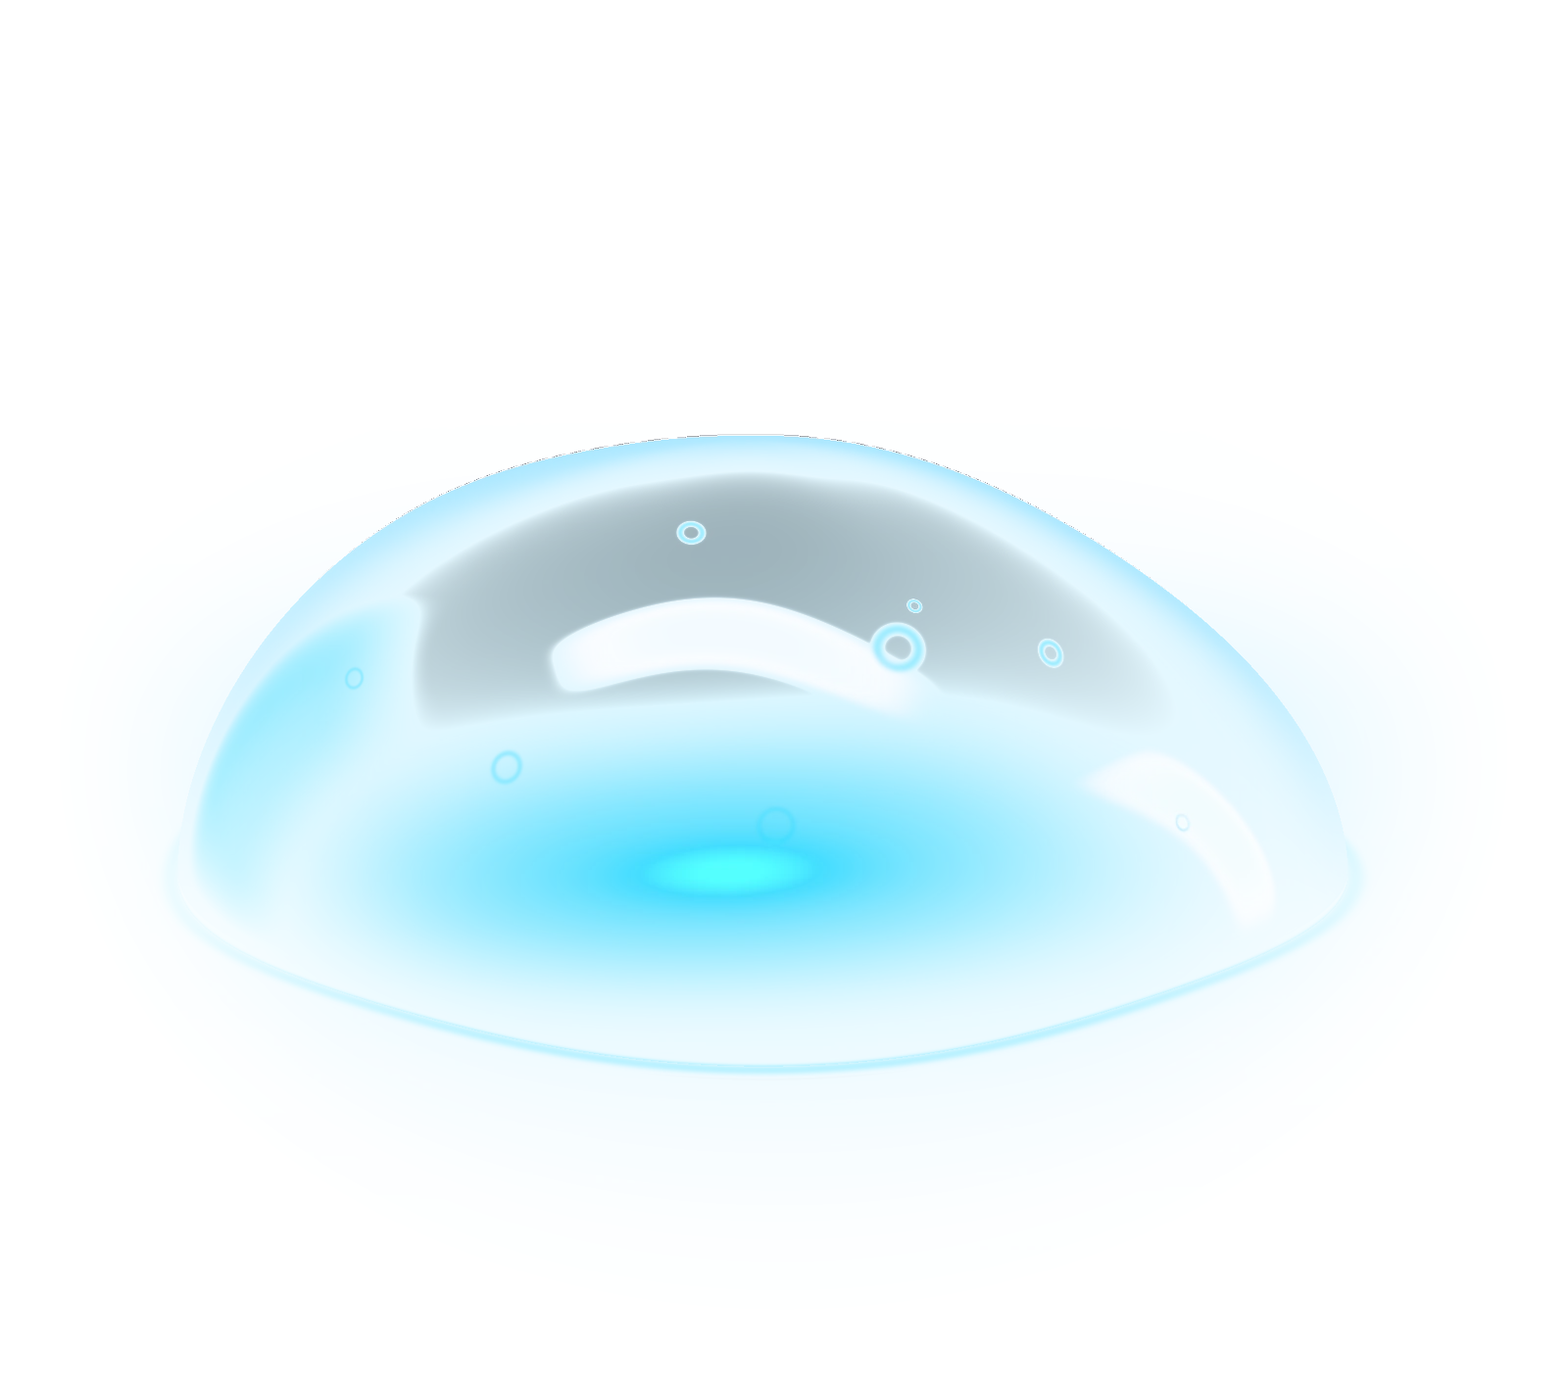
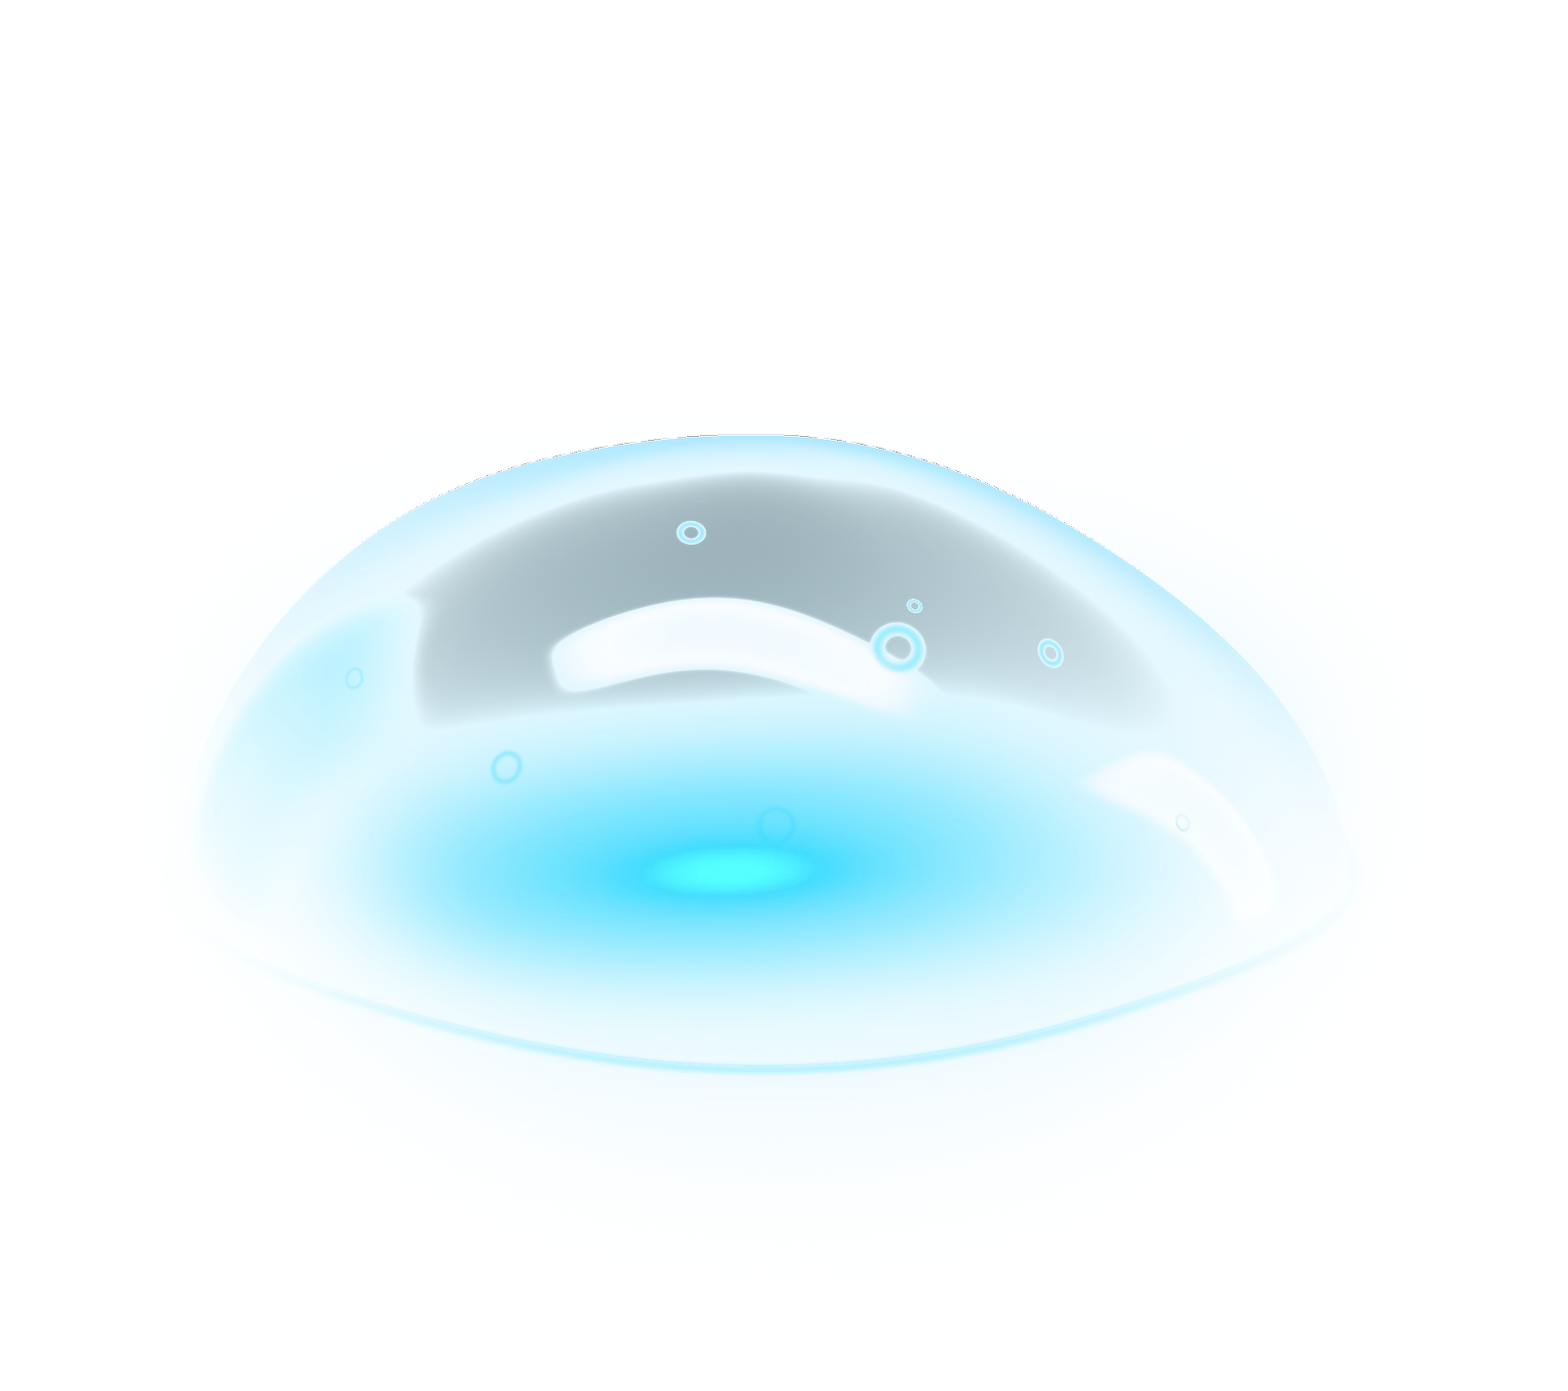
glyciome: eased hero scrim (no creases), portrait colour layer, story timing, alpha-dithered render
Claude-Session: https://claude.ai/code/session_014388NEQuC2XBNDXHm5X17C

Changed region(s): [[0.125, 0.4028, 0.2188, 0.6507], [0.2188, 0.3718, 0.25, 0.4028]]

diff --git a/glyciome/index.html b/glyciome/index.html
@@ -806,12 +806,12 @@ div.mh-row{grid-template-columns:minmax(0,4fr) minmax(0,3fr) minmax(0,5fr) 24px}
 .fdp{position:relative;aspect-ratio:422/580;overflow:hidden;background:var(--bone2);transition:box-shadow .4s var(--eo);--mx:50%;--my:40%}
 .fdp img{position:absolute;inset:0;width:100%;height:100%;object-fit:cover;transition:transform .45s var(--eo),clip-path .45s var(--eo)}
 .fdp img.g{filter:grayscale(1) contrast(1.03)}
-.fdp img.c{clip-path:circle(0% at var(--mx) var(--my))}
+.fdp .cl{position:absolute;inset:0;clip-path:circle(0% at var(--mx) var(--my))!important;transition:clip-path .45s var(--eo)}
 .fdp.noimg img{display:none}
 .fdc:hover{transform:translateY(-6px)}
 .fdc:hover .fdp{box-shadow:0 22px 40px -24px rgba(11,21,25,.5)}
 .fdc:hover .fdp img{transform:scale(1.045)}
-.fdc:hover .fdp img.c{clip-path:circle(150% at var(--mx) var(--my))}
+.fdc:hover .fdp .cl{clip-path:circle(150% at var(--mx) var(--my))!important}
 .fdt{padding-top:4px}
 .fdt h3{margin:0 0 8px;font-family:var(--disp);font-weight:400;font-size:clamp(22px,1.8vw,28px);line-height:1.15;letter-spacing:-.012em;color:var(--ink);transition:color .3s var(--eo)}
 .fdc:hover .fdt h3{color:var(--accD)}
@@ -836,6 +836,8 @@ div.mh-row{grid-template-columns:minmax(0,4fr) minmax(0,3fr) minmax(0,5fr) 24px}
 .gpub a:hover svg{transform:translateX(4px)}
 .gpub .note-s{grid-column:2;margin:22px 0 0;font-size:13.5px;line-height:1.55;color:var(--stone);max-width:80ch}
 @media (max-width:860px){.gpub{grid-template-columns:1fr;row-gap:18px}.gpub a{grid-template-columns:1fr 18px;row-gap:6px}.gpub a .lab{grid-column:1/-1;padding-top:0}.gpub .note-s{grid-column:1}}
+/* DP: the template scrim's hard linear stops left creases (y=20%, the 86% radial rim) under a x6 luminance boost; ease every stop out */
+@media (min-width:861px){.hero::before{background:radial-gradient(46% 64% at 20% 52%,rgba(var(--inkr),.78) 0%,rgba(var(--inkr),.62) 28%,rgba(var(--inkr),.4) 50%,rgba(var(--inkr),.2) 68%,rgba(var(--inkr),.08) 82%,rgba(var(--inkr),.02) 92%,rgba(var(--inkr),0) 100%),linear-gradient(180deg,rgba(var(--inkr),.3) 0%,rgba(var(--inkr),.19) 8%,rgba(var(--inkr),.1) 16%,rgba(var(--inkr),.04) 25%,rgba(var(--inkr),.01) 33%,rgba(var(--inkr),0) 40%,rgba(var(--inkr),0) 64%,rgba(var(--inkr),.08) 72%,rgba(var(--inkr),.3) 82%,rgba(var(--inkr),.66) 91%,var(--ink) 100%)}}
 </style>
 </head>
 </head>
@@ -1528,7 +1530,7 @@ function mhList(ps){return '<div class="mh"><div class="mh-group"><ul class="mh-
 function pipeRows(list){return '<ul class="pfr pipe">'+list.map(function(c){
   return '<li><span class="lab tg"><b>'+esc(c[3])+'</b><i>'+esc(c[0])+'</i></span><h3>'+esc(c[1])+'<span class="loc">'+esc(c[2])+'</span></h3><p>'+esc(c[4])+'</p><a class="lab ul lk" href="'+c[5]+'" target="_blank" rel="noopener">'+esc(c[6])+'</a></li>'}).join("")+'</ul>'}
 function founders(){return '<div class="fdr">'+TEAM.map(function(p){
-  return '<article class="fdc"><div class="fdp"><img class="g" src="'+p.img+'" alt="" loading="lazy" onerror="this.closest(\'.fdp\').classList.add(\'noimg\')"><img class="c" src="'+p.img+'" alt="'+esc(p.name)+'" loading="lazy" onerror="this.remove()"></div>'+
+  return '<article class="fdc"><div class="fdp"><img class="g" src="'+p.img+'" alt="" loading="lazy" onerror="this.closest(\'.fdp\').classList.add(\'noimg\')"><span class="cl"><img class="c" src="'+p.img+'" alt="'+esc(p.name)+'" loading="lazy" onerror="this.remove()"></span></div>'+
    '<div class="fdt"><h3>'+esc(p.name)+'</h3><span class="lab">'+esc(p.title)+'</span><p>'+esc(p.sum)+'</p></div></article>'}).join("")+'</div>'}
 function news(){return '<ul class="nws">'+NEWS.map(function(n){return '<li><a href="'+n[3]+'" target="_blank" rel="noopener"><span class="lab dt">'+esc(n[0])+'</span><h3>'+esc(n[1])+'</h3><span class="lab src">'+esc(n[2])+' '+ARR+'</span></a></li>'}).join("")+'</ul>'}
 function pubs(){return '<div class="gpub"><span class="lab kick" data-r>Peer-reviewed abstracts</span><ul>'+PUBS.map(function(p){
@@ -1564,7 +1566,7 @@ function vHome(){
     '<div class="steps">'+
      '<article class="step on"><h2>A healthy genital ecosystem.</h2><p>Healthy vaginal cells and a beneficial microbiome protect the surface of the genital tract. That balance is shared between partners, and it matters at every age and stage of life.</p></article>'+
      '<article class="step"><h2>When the balance tips.</h2><p>In bacterial vaginosis, harmful bacteria take over. Through the microbiota–cancer axis, they and viral co-infections such as HPV drive cancer-promoting changes in cells. With current treatments, about 40% of cases come back.</p></article>'+
-     '<article class="step"><h2>A prebiotic gel that restores support.</h2><p>PreBioGyn is a preservative-free prebiotic lubricant. Phase I lab studies established its safety for vaginal cells and the vaginal microbiome, compared with existing BV-relief lubricants. It is for anyone, whatever their HPV vaccination status.</p></article>'+
+     '<article class="step"><h2>Prebiotic support.</h2><p>PreBioGyn is a preservative-free prebiotic lubricant. Phase I lab studies established its safety for vaginal cells and the vaginal microbiome, compared with existing BV-relief lubricants. It is for anyone, whatever their HPV vaccination status.</p></article>'+
     '</div></div>'+
    '<div class="story-r"><div class="scene" id="scene">'+scene()+'</div></div>'+
   '</div></section>'+
@@ -1803,14 +1805,14 @@ function storyDraw(svg){
       op(C.el,b*gi*(1-.45*hurt));
     });
     /* the beneficial rods: in from step 1, most fade in BV (the hardy third hold on), all return with the gel */
-    E.rod.forEach(function(R){var gi=cl(seg(p,.04,.2)*1.6-R.b.t*.6);var lost=R.b.keep?0:cl(dis*1.5-R.b.t*.5)*(1-cl(heal*1.5-R.b.t*.5));
+    E.rod.forEach(function(R){var gi=cl(seg(p,0,.1)*1.6-R.b.t*.6);var lost=R.b.keep?0:cl(dis*1.5-R.b.t*.5)*(1-cl(heal*1.5-R.b.t*.5));
       op(R.el,b*gi*(1-lost));});
     /* the harmful cocci: bloom cluster by cluster in BV, fade under the prebiotic gel */
     E.coc.forEach(function(Q){var gi=cl(dis*1.7-Q.c.ci*.08-Q.c.t*.12),out=cl(heal*1.6-Q.c.t*.4);
       Q.el.setAttribute("r",(Q.c.r*(.4+.6*gi)).toFixed(2));op(Q.el,b*gi*(1-out));});
     /* the gel settles from above onto the surface */
     if(E.gel){E.gel.setAttribute("transform","translate(0 "+(-(1-gel)*260).toFixed(1)+")");op(E.gel,b*gel)}
-    op(E.l1,b*seg(p,.08,.16)*(1-seg(p,.28,.34)));op(E.l2,b*seg(p,.38,.46)*(1-seg(p,.58,.64)));op(E.l3,b*seg(p,.76,.84));
+    op(E.l1,b*seg(p,.02,.08)*(1-seg(p,.28,.34)));op(E.l2,b*seg(p,.38,.46)*(1-seg(p,.58,.64)));op(E.l3,b*seg(p,.76,.84));
   };
 }/*</R:story>*/
 

diff --git a/_kit/src/glyciome.src.html b/_kit/src/glyciome.src.html
@@ -802,12 +802,12 @@ div.mh-row{grid-template-columns:minmax(0,4fr) minmax(0,3fr) minmax(0,5fr) 24px}
 .fdp{position:relative;aspect-ratio:422/580;overflow:hidden;background:var(--bone2);transition:box-shadow .4s var(--eo);--mx:50%;--my:40%}
 .fdp img{position:absolute;inset:0;width:100%;height:100%;object-fit:cover;transition:transform .45s var(--eo),clip-path .45s var(--eo)}
 .fdp img.g{filter:grayscale(1) contrast(1.03)}
-.fdp img.c{clip-path:circle(0% at var(--mx) var(--my))}
+.fdp .cl{position:absolute;inset:0;clip-path:circle(0% at var(--mx) var(--my))!important;transition:clip-path .45s var(--eo)}
 .fdp.noimg img{display:none}
 .fdc:hover{transform:translateY(-6px)}
 .fdc:hover .fdp{box-shadow:0 22px 40px -24px rgba(11,21,25,.5)}
 .fdc:hover .fdp img{transform:scale(1.045)}
-.fdc:hover .fdp img.c{clip-path:circle(150% at var(--mx) var(--my))}
+.fdc:hover .fdp .cl{clip-path:circle(150% at var(--mx) var(--my))!important}
 .fdt{padding-top:4px}
 .fdt h3{margin:0 0 8px;font-family:var(--disp);font-weight:400;font-size:clamp(22px,1.8vw,28px);line-height:1.15;letter-spacing:-.012em;color:var(--ink);transition:color .3s var(--eo)}
 .fdc:hover .fdt h3{color:var(--accD)}
@@ -832,6 +832,8 @@ div.mh-row{grid-template-columns:minmax(0,4fr) minmax(0,3fr) minmax(0,5fr) 24px}
 .gpub a:hover svg{transform:translateX(4px)}
 .gpub .note-s{grid-column:2;margin:22px 0 0;font-size:13.5px;line-height:1.55;color:var(--stone);max-width:80ch}
 @media (max-width:860px){.gpub{grid-template-columns:1fr;row-gap:18px}.gpub a{grid-template-columns:1fr 18px;row-gap:6px}.gpub a .lab{grid-column:1/-1;padding-top:0}.gpub .note-s{grid-column:1}}
+/* DP: the template scrim's hard linear stops left creases (y=20%, the 86% radial rim) under a x6 luminance boost; ease every stop out */
+@media (min-width:861px){.hero::before{background:radial-gradient(46% 64% at 20% 52%,rgba(var(--inkr),.78) 0%,rgba(var(--inkr),.62) 28%,rgba(var(--inkr),.4) 50%,rgba(var(--inkr),.2) 68%,rgba(var(--inkr),.08) 82%,rgba(var(--inkr),.02) 92%,rgba(var(--inkr),0) 100%),linear-gradient(180deg,rgba(var(--inkr),.3) 0%,rgba(var(--inkr),.19) 8%,rgba(var(--inkr),.1) 16%,rgba(var(--inkr),.04) 25%,rgba(var(--inkr),.01) 33%,rgba(var(--inkr),0) 40%,rgba(var(--inkr),0) 64%,rgba(var(--inkr),.08) 72%,rgba(var(--inkr),.3) 82%,rgba(var(--inkr),.66) 91%,var(--ink) 100%)}}
 </style>
 </head>
 </head>
@@ -964,7 +966,7 @@ function mhList(ps){return '<div class="mh"><div class="mh-group"><ul class="mh-
 function pipeRows(list){return '<ul class="pfr pipe">'+list.map(function(c){
   return '<li><span class="lab tg"><b>'+esc(c[3])+'</b><i>'+esc(c[0])+'</i></span><h3>'+esc(c[1])+'<span class="loc">'+esc(c[2])+'</span></h3><p>'+esc(c[4])+'</p><a class="lab ul lk" href="'+c[5]+'" target="_blank" rel="noopener">'+esc(c[6])+'</a></li>'}).join("")+'</ul>'}
 function founders(){return '<div class="fdr">'+TEAM.map(function(p){
-  return '<article class="fdc"><div class="fdp"><img class="g" src="'+p.img+'" alt="" loading="lazy" onerror="this.closest(\'.fdp\').classList.add(\'noimg\')"><img class="c" src="'+p.img+'" alt="'+esc(p.name)+'" loading="lazy" onerror="this.remove()"></div>'+
+  return '<article class="fdc"><div class="fdp"><img class="g" src="'+p.img+'" alt="" loading="lazy" onerror="this.closest(\'.fdp\').classList.add(\'noimg\')"><span class="cl"><img class="c" src="'+p.img+'" alt="'+esc(p.name)+'" loading="lazy" onerror="this.remove()"></span></div>'+
    '<div class="fdt"><h3>'+esc(p.name)+'</h3><span class="lab">'+esc(p.title)+'</span><p>'+esc(p.sum)+'</p></div></article>'}).join("")+'</div>'}
 function news(){return '<ul class="nws">'+NEWS.map(function(n){return '<li><a href="'+n[3]+'" target="_blank" rel="noopener"><span class="lab dt">'+esc(n[0])+'</span><h3>'+esc(n[1])+'</h3><span class="lab src">'+esc(n[2])+' '+ARR+'</span></a></li>'}).join("")+'</ul>'}
 function pubs(){return '<div class="gpub"><span class="lab kick" data-r>Peer-reviewed abstracts</span><ul>'+PUBS.map(function(p){
@@ -1000,7 +1002,7 @@ function vHome(){
     '<div class="steps">'+
      '<article class="step on"><h2>A healthy genital ecosystem.</h2><p>Healthy vaginal cells and a beneficial microbiome protect the surface of the genital tract. That balance is shared between partners, and it matters at every age and stage of life.</p></article>'+
      '<article class="step"><h2>When the balance tips.</h2><p>In bacterial vaginosis, harmful bacteria take over. Through the microbiota–cancer axis, they and viral co-infections such as HPV drive cancer-promoting changes in cells. With current treatments, about 40% of cases come back.</p></article>'+
-     '<article class="step"><h2>A prebiotic gel that restores support.</h2><p>PreBioGyn is a preservative-free prebiotic lubricant. Phase I lab studies established its safety for vaginal cells and the vaginal microbiome, compared with existing BV-relief lubricants. It is for anyone, whatever their HPV vaccination status.</p></article>'+
+     '<article class="step"><h2>Prebiotic support.</h2><p>PreBioGyn is a preservative-free prebiotic lubricant. Phase I lab studies established its safety for vaginal cells and the vaginal microbiome, compared with existing BV-relief lubricants. It is for anyone, whatever their HPV vaccination status.</p></article>'+
     '</div></div>'+
    '<div class="story-r"><div class="scene" id="scene">'+scene()+'</div></div>'+
   '</div></section>'+
@@ -1239,14 +1241,14 @@ function storyDraw(svg){
       op(C.el,b*gi*(1-.45*hurt));
     });
     /* the beneficial rods: in from step 1, most fade in BV (the hardy third hold on), all return with the gel */
-    E.rod.forEach(function(R){var gi=cl(seg(p,.04,.2)*1.6-R.b.t*.6);var lost=R.b.keep?0:cl(dis*1.5-R.b.t*.5)*(1-cl(heal*1.5-R.b.t*.5));
+    E.rod.forEach(function(R){var gi=cl(seg(p,0,.1)*1.6-R.b.t*.6);var lost=R.b.keep?0:cl(dis*1.5-R.b.t*.5)*(1-cl(heal*1.5-R.b.t*.5));
       op(R.el,b*gi*(1-lost));});
     /* the harmful cocci: bloom cluster by cluster in BV, fade under the prebiotic gel */
     E.coc.forEach(function(Q){var gi=cl(dis*1.7-Q.c.ci*.08-Q.c.t*.12),out=cl(heal*1.6-Q.c.t*.4);
       Q.el.setAttribute("r",(Q.c.r*(.4+.6*gi)).toFixed(2));op(Q.el,b*gi*(1-out));});
     /* the gel settles from above onto the surface */
     if(E.gel){E.gel.setAttribute("transform","translate(0 "+(-(1-gel)*260).toFixed(1)+")");op(E.gel,b*gel)}
-    op(E.l1,b*seg(p,.08,.16)*(1-seg(p,.28,.34)));op(E.l2,b*seg(p,.38,.46)*(1-seg(p,.58,.64)));op(E.l3,b*seg(p,.76,.84));
+    op(E.l1,b*seg(p,.02,.08)*(1-seg(p,.28,.34)));op(E.l2,b*seg(p,.38,.46)*(1-seg(p,.58,.64)));op(E.l3,b*seg(p,.76,.84));
   };
 }/*</R:story>*/
 

diff --git a/_kit/home/glyciome/views.js b/_kit/home/glyciome/views.js
@@ -2,7 +2,7 @@
 function pipeRows(list){return '<ul class="pfr pipe">'+list.map(function(c){
   return '<li><span class="lab tg"><b>'+esc(c[3])+'</b><i>'+esc(c[0])+'</i></span><h3>'+esc(c[1])+'<span class="loc">'+esc(c[2])+'</span></h3><p>'+esc(c[4])+'</p><a class="lab ul lk" href="'+c[5]+'" target="_blank" rel="noopener">'+esc(c[6])+'</a></li>'}).join("")+'</ul>'}
 function founders(){return '<div class="fdr">'+TEAM.map(function(p){
-  return '<article class="fdc"><div class="fdp"><img class="g" src="'+p.img+'" alt="" loading="lazy" onerror="this.closest(\'.fdp\').classList.add(\'noimg\')"><img class="c" src="'+p.img+'" alt="'+esc(p.name)+'" loading="lazy" onerror="this.remove()"></div>'+
+  return '<article class="fdc"><div class="fdp"><img class="g" src="'+p.img+'" alt="" loading="lazy" onerror="this.closest(\'.fdp\').classList.add(\'noimg\')"><span class="cl"><img class="c" src="'+p.img+'" alt="'+esc(p.name)+'" loading="lazy" onerror="this.remove()"></span></div>'+
    '<div class="fdt"><h3>'+esc(p.name)+'</h3><span class="lab">'+esc(p.title)+'</span><p>'+esc(p.sum)+'</p></div></article>'}).join("")+'</div>'}
 function news(){return '<ul class="nws">'+NEWS.map(function(n){return '<li><a href="'+n[3]+'" target="_blank" rel="noopener"><span class="lab dt">'+esc(n[0])+'</span><h3>'+esc(n[1])+'</h3><span class="lab src">'+esc(n[2])+' '+ARR+'</span></a></li>'}).join("")+'</ul>'}
 function pubs(){return '<div class="gpub"><span class="lab kick" data-r>Peer-reviewed abstracts</span><ul>'+PUBS.map(function(p){
@@ -38,7 +38,7 @@ function vHome(){
     '<div class="steps">'+
      '<article class="step on"><h2>A healthy genital ecosystem.</h2><p>Healthy vaginal cells and a beneficial microbiome protect the surface of the genital tract. That balance is shared between partners, and it matters at every age and stage of life.</p></article>'+
      '<article class="step"><h2>When the balance tips.</h2><p>In bacterial vaginosis, harmful bacteria take over. Through the microbiota–cancer axis, they and viral co-infections such as HPV drive cancer-promoting changes in cells. With current treatments, about 40% of cases come back.</p></article>'+
-     '<article class="step"><h2>A prebiotic gel that restores support.</h2><p>PreBioGyn is a preservative-free prebiotic lubricant. Phase I lab studies established its safety for vaginal cells and the vaginal microbiome, compared with existing BV-relief lubricants. It is for anyone, whatever their HPV vaccination status.</p></article>'+
+     '<article class="step"><h2>Prebiotic support.</h2><p>PreBioGyn is a preservative-free prebiotic lubricant. Phase I lab studies established its safety for vaginal cells and the vaginal microbiome, compared with existing BV-relief lubricants. It is for anyone, whatever their HPV vaccination status.</p></article>'+
     '</div></div>'+
    '<div class="story-r"><div class="scene" id="scene">'+scene()+'</div></div>'+
   '</div></section>'+

diff --git a/_kit/home/glyciome/extra.css b/_kit/home/glyciome/extra.css
@@ -169,12 +169,12 @@ div.mh-row{grid-template-columns:minmax(0,4fr) minmax(0,3fr) minmax(0,5fr) 24px}
 .fdp{position:relative;aspect-ratio:422/580;overflow:hidden;background:var(--bone2);transition:box-shadow .4s var(--eo);--mx:50%;--my:40%}
 .fdp img{position:absolute;inset:0;width:100%;height:100%;object-fit:cover;transition:transform .45s var(--eo),clip-path .45s var(--eo)}
 .fdp img.g{filter:grayscale(1) contrast(1.03)}
-.fdp img.c{clip-path:circle(0% at var(--mx) var(--my))}
+.fdp .cl{position:absolute;inset:0;clip-path:circle(0% at var(--mx) var(--my))!important;transition:clip-path .45s var(--eo)}
 .fdp.noimg img{display:none}
 .fdc:hover{transform:translateY(-6px)}
 .fdc:hover .fdp{box-shadow:0 22px 40px -24px rgba(11,21,25,.5)}
 .fdc:hover .fdp img{transform:scale(1.045)}
-.fdc:hover .fdp img.c{clip-path:circle(150% at var(--mx) var(--my))}
+.fdc:hover .fdp .cl{clip-path:circle(150% at var(--mx) var(--my))!important}
 .fdt{padding-top:4px}
 .fdt h3{margin:0 0 8px;font-family:var(--disp);font-weight:400;font-size:clamp(22px,1.8vw,28px);line-height:1.15;letter-spacing:-.012em;color:var(--ink);transition:color .3s var(--eo)}
 .fdc:hover .fdt h3{color:var(--accD)}
@@ -199,3 +199,5 @@ div.mh-row{grid-template-columns:minmax(0,4fr) minmax(0,3fr) minmax(0,5fr) 24px}
 .gpub a:hover svg{transform:translateX(4px)}
 .gpub .note-s{grid-column:2;margin:22px 0 0;font-size:13.5px;line-height:1.55;color:var(--stone);max-width:80ch}
 @media (max-width:860px){.gpub{grid-template-columns:1fr;row-gap:18px}.gpub a{grid-template-columns:1fr 18px;row-gap:6px}.gpub a .lab{grid-column:1/-1;padding-top:0}.gpub .note-s{grid-column:1}}
+/* DP: the template scrim's hard linear stops left creases (y=20%, the 86% radial rim) under a x6 luminance boost; ease every stop out */
+@media (min-width:861px){.hero::before{background:radial-gradient(46% 64% at 20% 52%,rgba(var(--inkr),.78) 0%,rgba(var(--inkr),.62) 28%,rgba(var(--inkr),.4) 50%,rgba(var(--inkr),.2) 68%,rgba(var(--inkr),.08) 82%,rgba(var(--inkr),.02) 92%,rgba(var(--inkr),0) 100%),linear-gradient(180deg,rgba(var(--inkr),.3) 0%,rgba(var(--inkr),.19) 8%,rgba(var(--inkr),.1) 16%,rgba(var(--inkr),.04) 25%,rgba(var(--inkr),.01) 33%,rgba(var(--inkr),0) 40%,rgba(var(--inkr),0) 64%,rgba(var(--inkr),.08) 72%,rgba(var(--inkr),.3) 82%,rgba(var(--inkr),.66) 91%,var(--ink) 100%)}}

diff --git a/_kit/home/glyciome/story.js b/_kit/home/glyciome/story.js
@@ -74,13 +74,13 @@ function storyDraw(svg){
       op(C.el,b*gi*(1-.45*hurt));
     });
     /* the beneficial rods: in from step 1, most fade in BV (the hardy third hold on), all return with the gel */
-    E.rod.forEach(function(R){var gi=cl(seg(p,.04,.2)*1.6-R.b.t*.6);var lost=R.b.keep?0:cl(dis*1.5-R.b.t*.5)*(1-cl(heal*1.5-R.b.t*.5));
+    E.rod.forEach(function(R){var gi=cl(seg(p,0,.1)*1.6-R.b.t*.6);var lost=R.b.keep?0:cl(dis*1.5-R.b.t*.5)*(1-cl(heal*1.5-R.b.t*.5));
       op(R.el,b*gi*(1-lost));});
     /* the harmful cocci: bloom cluster by cluster in BV, fade under the prebiotic gel */
     E.coc.forEach(function(Q){var gi=cl(dis*1.7-Q.c.ci*.08-Q.c.t*.12),out=cl(heal*1.6-Q.c.t*.4);
       Q.el.setAttribute("r",(Q.c.r*(.4+.6*gi)).toFixed(2));op(Q.el,b*gi*(1-out));});
     /* the gel settles from above onto the surface */
     if(E.gel){E.gel.setAttribute("transform","translate(0 "+(-(1-gel)*260).toFixed(1)+")");op(E.gel,b*gel)}
-    op(E.l1,b*seg(p,.08,.16)*(1-seg(p,.28,.34)));op(E.l2,b*seg(p,.38,.46)*(1-seg(p,.58,.64)));op(E.l3,b*seg(p,.76,.84));
+    op(E.l1,b*seg(p,.02,.08)*(1-seg(p,.28,.34)));op(E.l2,b*seg(p,.38,.46)*(1-seg(p,.58,.64)));op(E.l3,b*seg(p,.76,.84));
   };
 }

diff --git a/_kit/home/glyciome/render.py b/_kit/home/glyciome/render.py
@@ -243,6 +243,10 @@ if __name__ == '__main__':
     a = np.max(np.where(D > 0, D / (1 - INK), -D / INK), -1)
     a = np.clip(a, 0, 1); a = np.where(a < 1 / 255, 0, a)
     c = np.where(a[..., None] > 0, (s - INK * (1 - a[..., None])) / np.maximum(a[..., None], 1e-6), 0)
+    # ease every faint floor term out well inside the frame, then dither the alpha so no 8-bit step can draw a contour (DP)
+    r2 = np.sqrt(((xx / FW - .5) / .5) ** 2 + ((yy / FH - .55) / .5) ** 2)
+    a = a * (1 - sstep(.42, .9, r2))
+    a = np.clip(a + (np.random.default_rng(3).random(a.shape) - .5) / 255 * (a > 0), 0, 1)
     rgba = np.concatenate([np.clip(c, 0, 1), a[..., None]], -1)
     Image.fromarray((rgba * 255 + .5).astype(np.uint8), 'RGBA').save(OUT)
     Image.fromarray((s * 255 + .5).astype(np.uint8), 'RGB').save(OUT.replace('.png', '_flat.png'))
